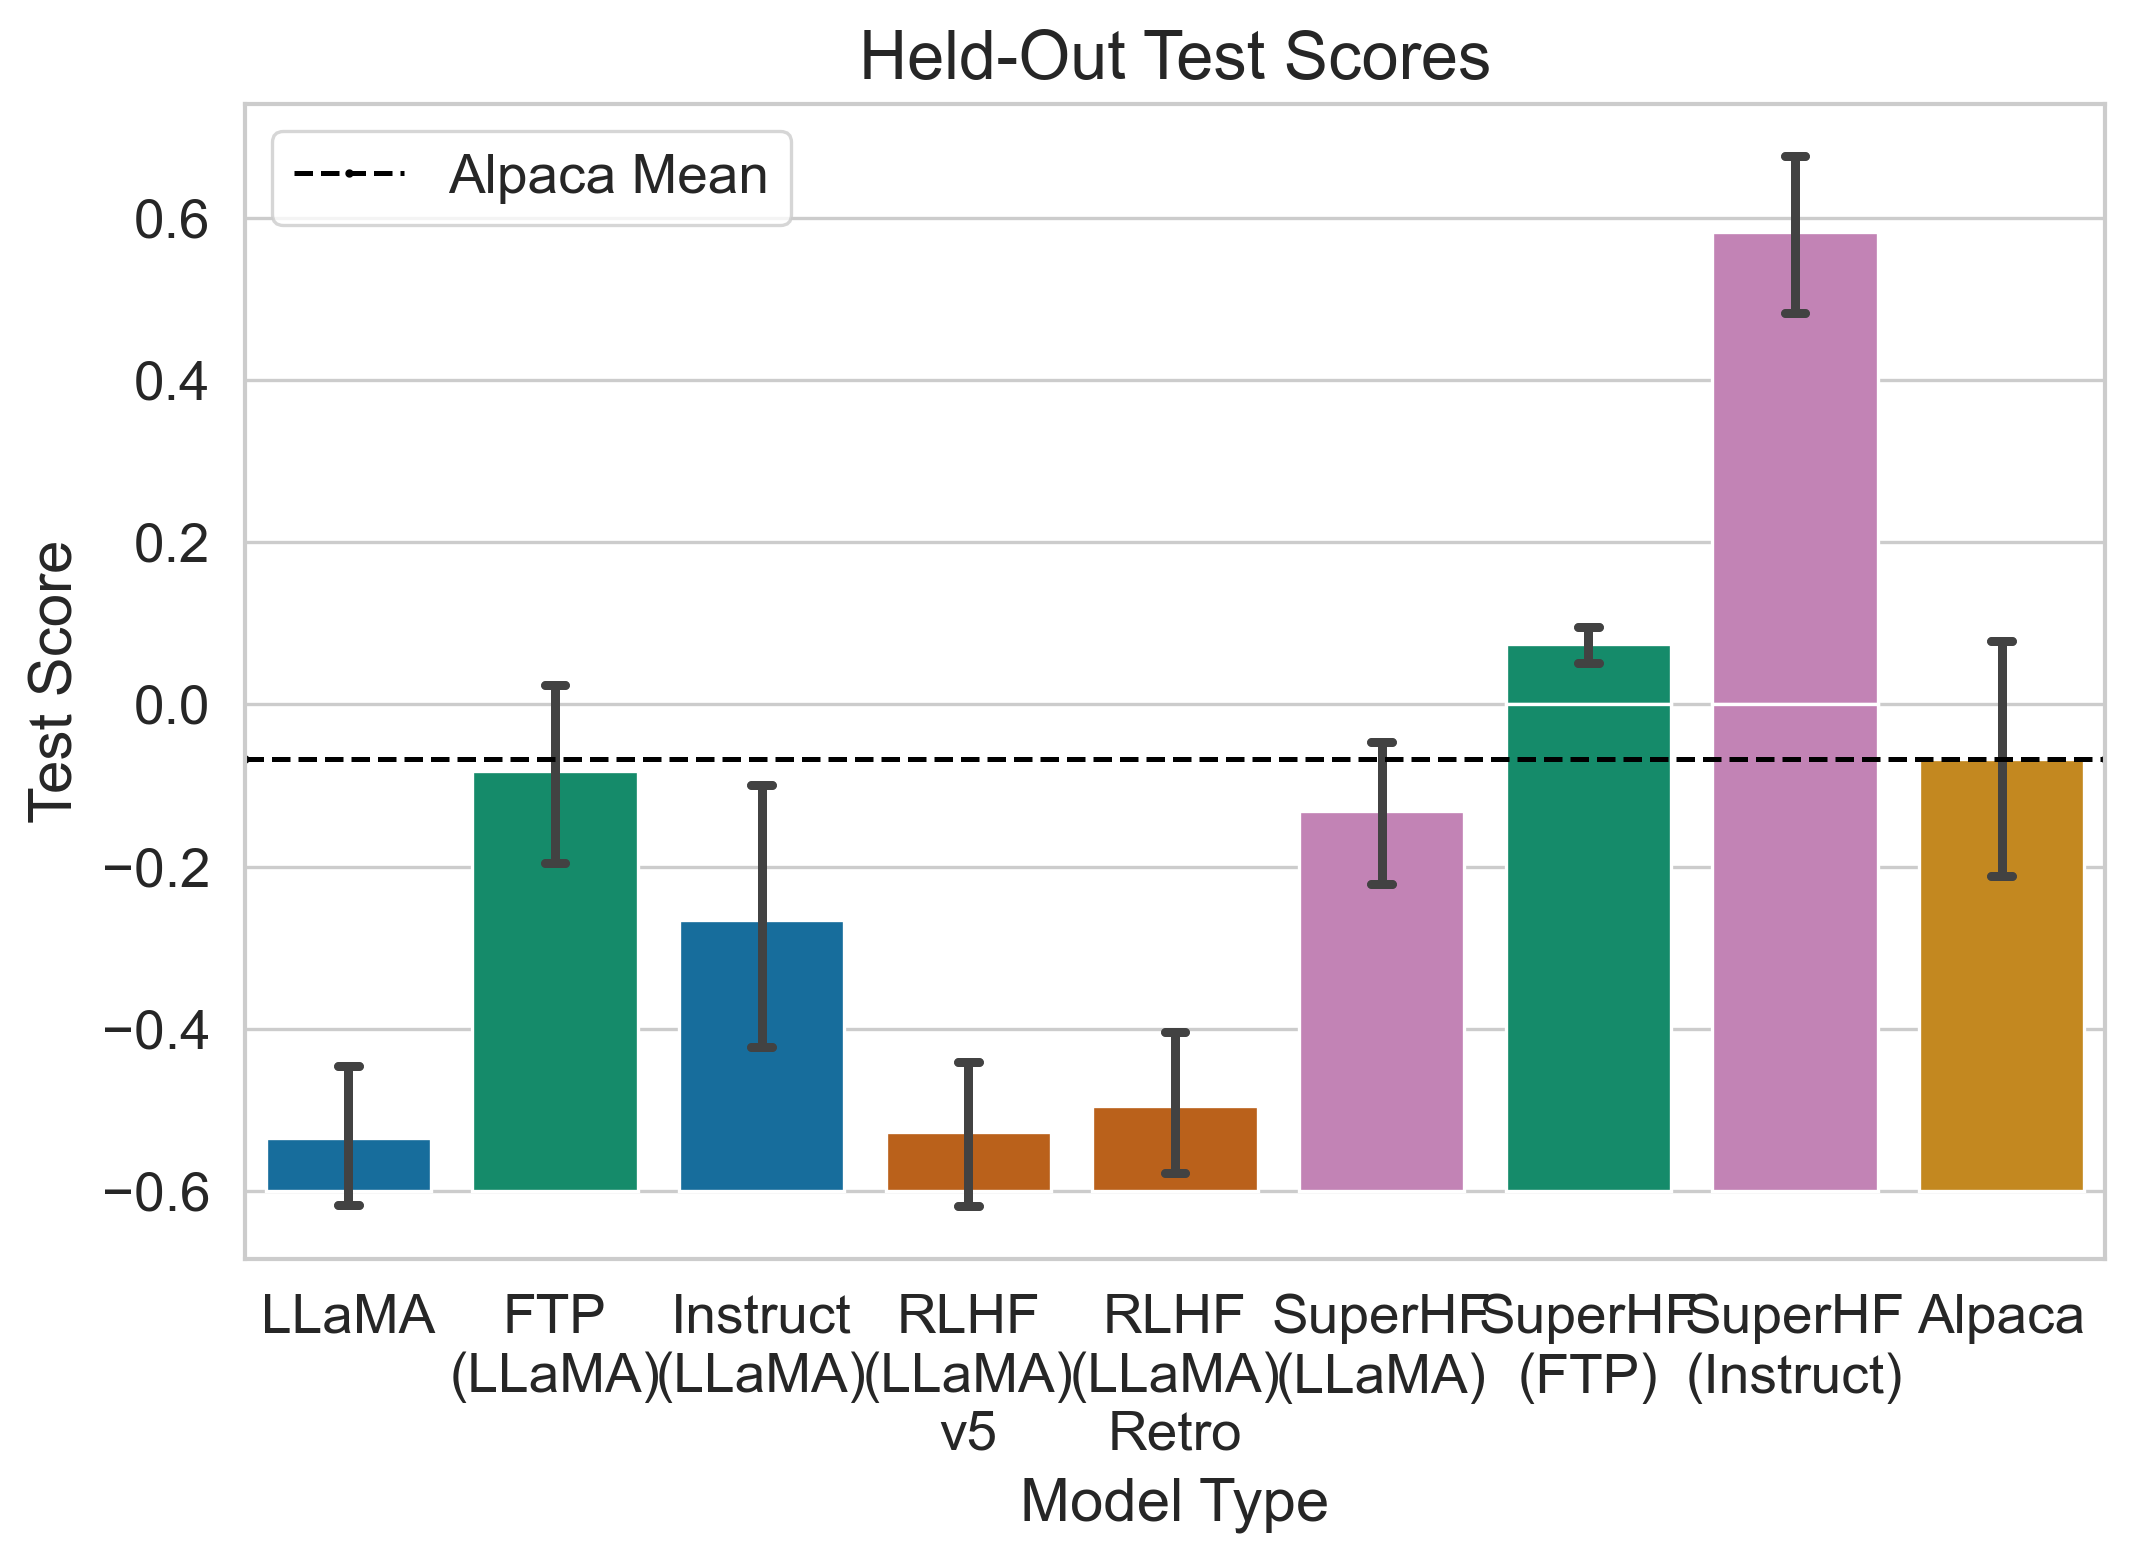
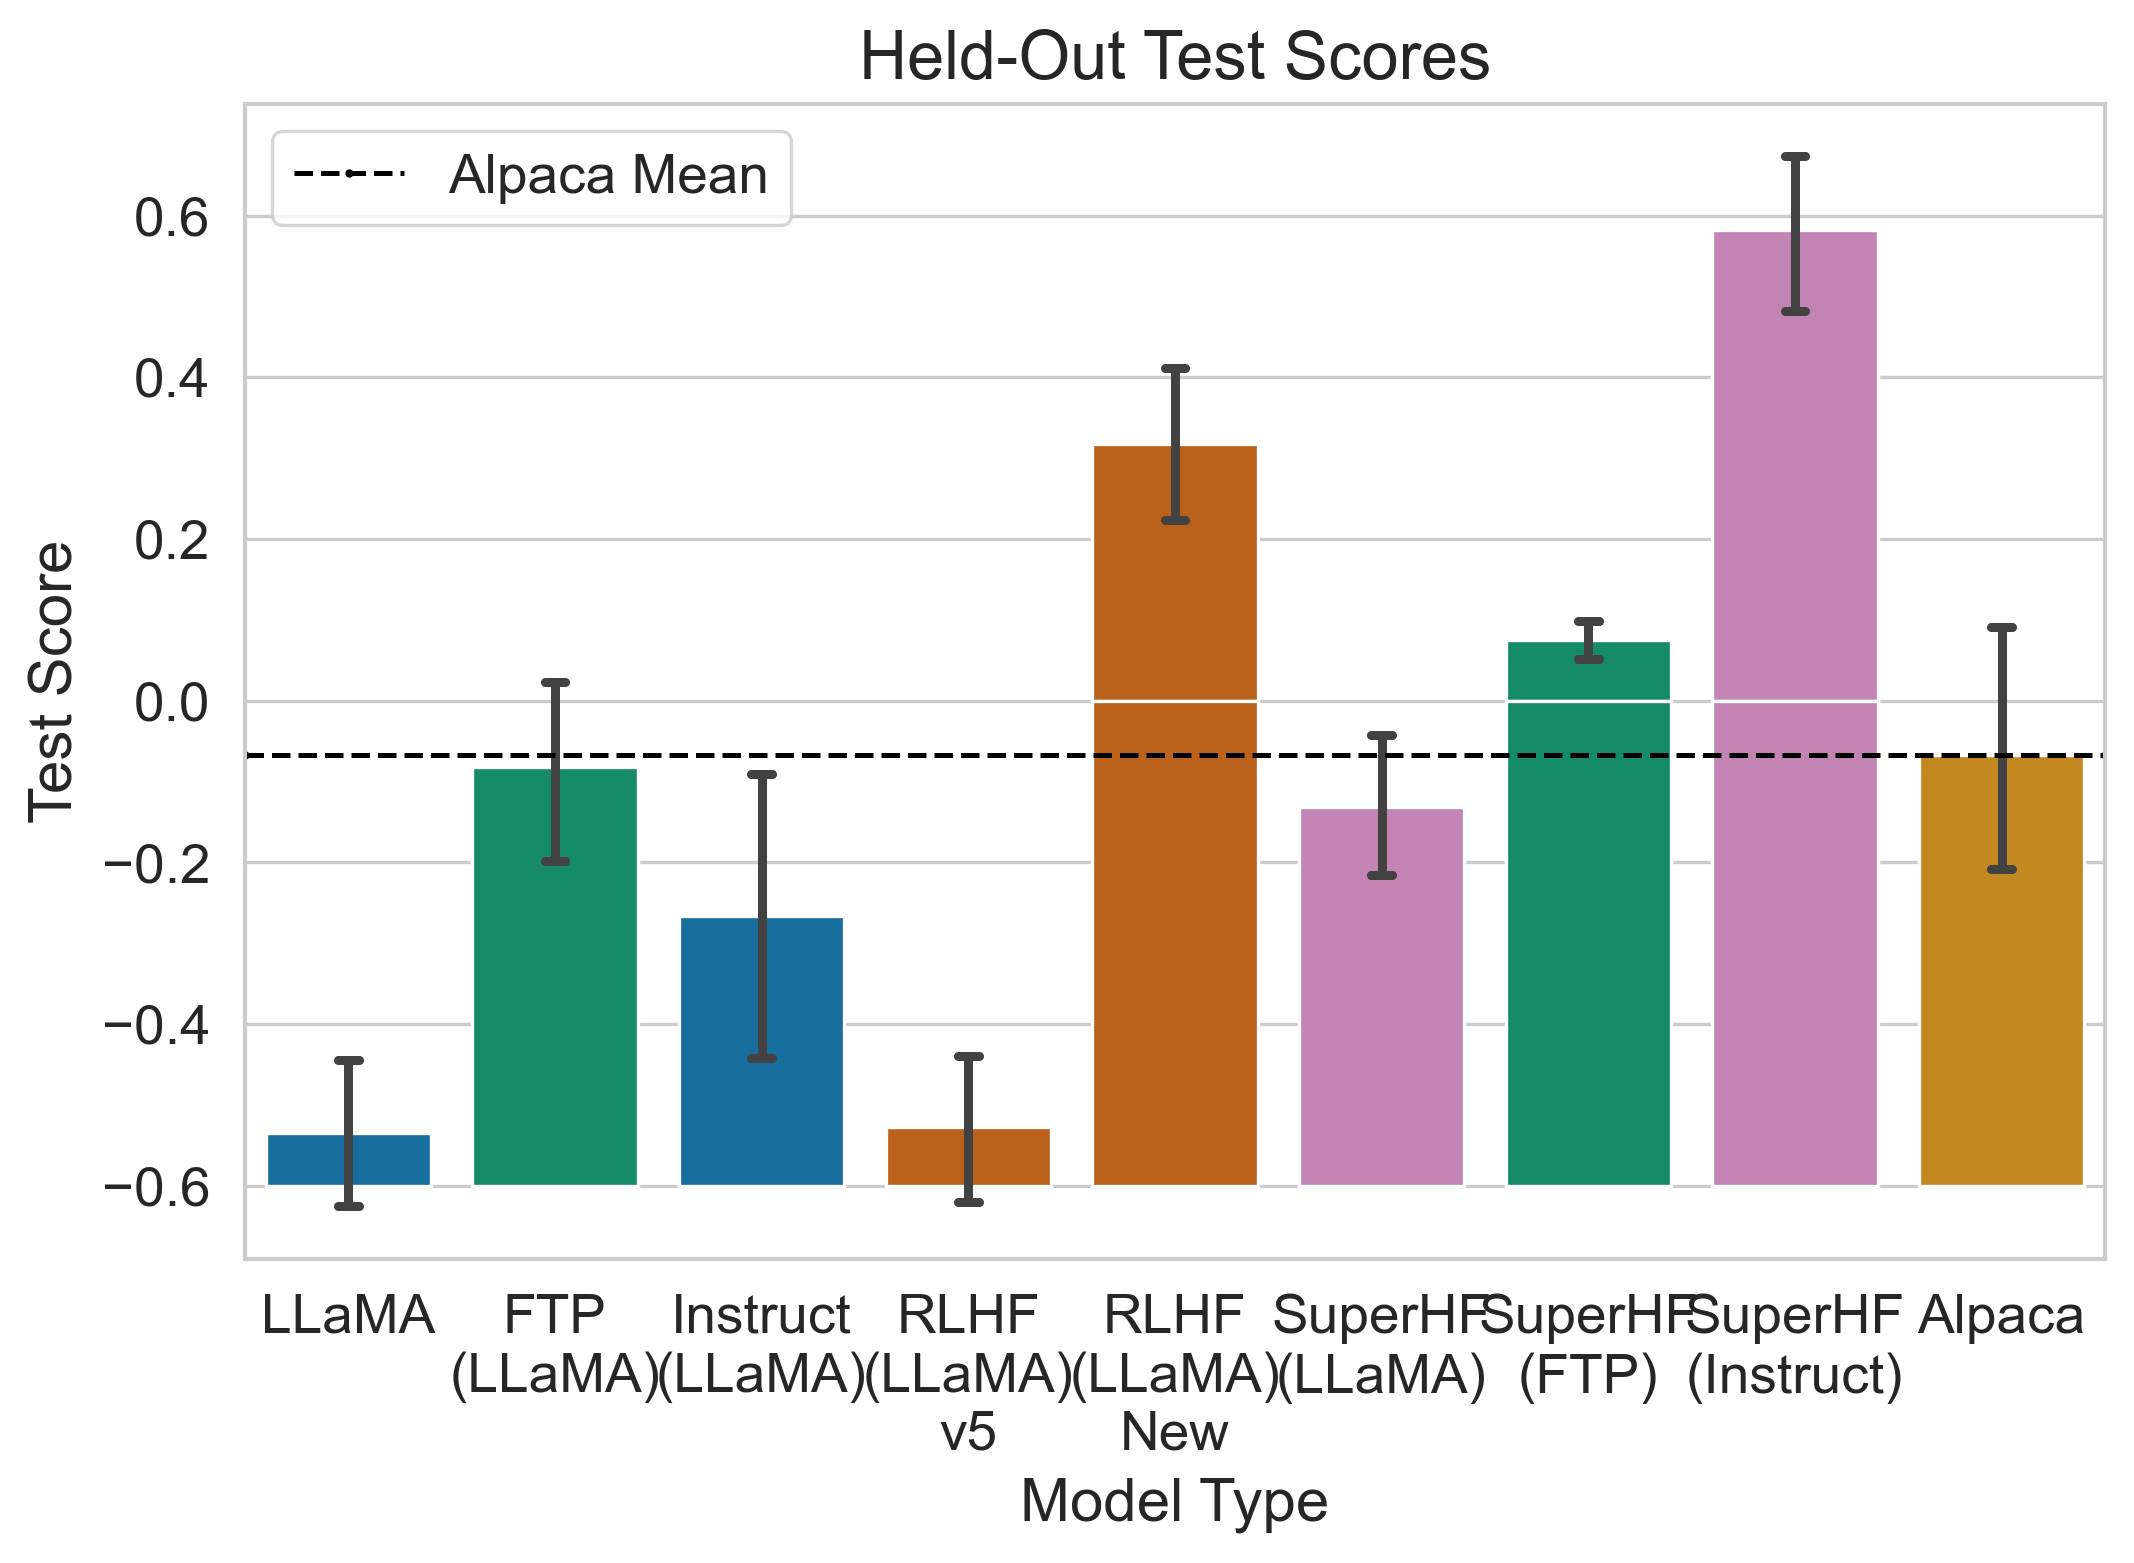
New RLHF model reward

diff --git a/charts/model_comparsions.py b/charts/model_comparsions.py
@@ -32,7 +32,7 @@ def main() -> None:
         "llama-instruct-12379.json",
         # "rlhf-v4-llama.json",
         "rlhf-v5-llama@step-00384.json",
-        "rlhf-retro-llama@step-00512.json",
+        "rlhf-fixed-llama-instruct-bs-16.json",
         "shf-v4-llama-10000-kl-0.35.json",
         "shf-v5-llama-ftp-24758-rm-0.5.json",
         "shf-v4-llama-instruct-10k-kl-0.35.json",
@@ -51,7 +51,7 @@ def main() -> None:
         "FTP\n(LLaMA)",
         "Instruct\n(LLaMA)",
         "RLHF\n(LLaMA)\nv5",
-        "RLHF\n(LLaMA)\nRetro",
+        "RLHF\n(LLaMA)\nNew",
         "SuperHF\n(LLaMA)",
         "SuperHF\n(FTP)",
         "SuperHF\n(Instruct)",
